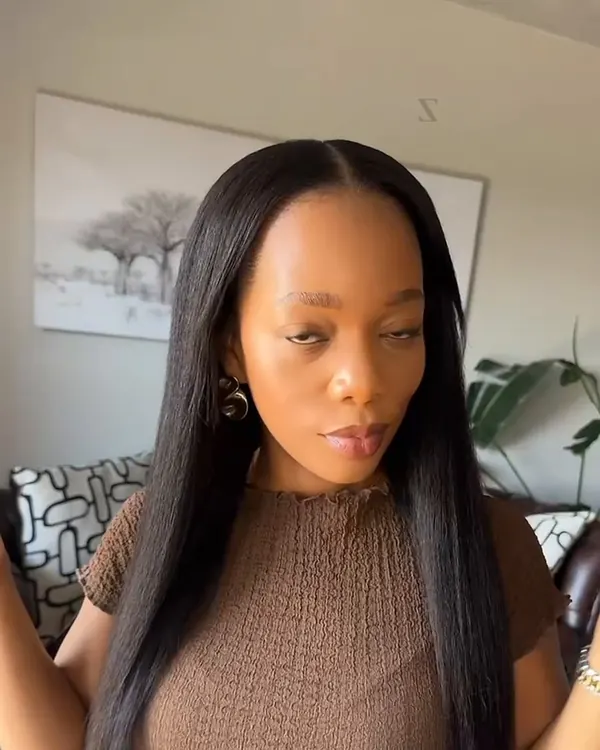
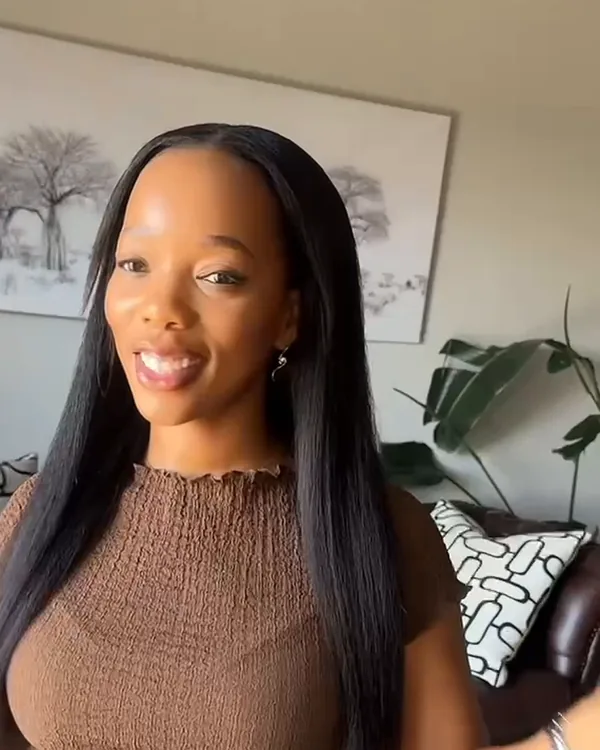
Eyes-open hero photos; smoother motion
- Half Wig: IMG_2820 (eyes open). U-Part: smiling, eyes-open frame from her U-Part video, cropped to match head size
- Page changes no longer wait before navigating (about 790ms to 210ms on a phone)
- Reveals start just before content reaches the screen, so fast scrolling never shows gaps
- Removed costly effects: animated clip-path openings, endless photo zoom, ribbon drift, blurred header and bar,
  header height change on scroll, and hero pointer/scroll handlers on inner pages

Claude-Session: https://claude.ai/code/session_01QDuqa353PVfZUPs24kS66a

diff --git a/assets/css/zante.css b/assets/css/zante.css
@@ -1742,3 +1742,27 @@ html.js-motion .z-hero .is-in .unveil img { transform: scale(1); }
   .ph-tile { border-radius: 14px; }
   .ph-tile figcaption { font-size: .72rem; }
 }
+
+/* ================= SMOOTHNESS PASS: only opacity and transform, nothing that repaints large areas ================= */
+html.is-leaving main, html.is-leaving .footer { opacity: .6; transform: none; }
+main, .footer { transition: opacity .15s ease; }
+html.js-motion main { animation: pageIn .4s ease-out both; }
+@keyframes pageIn { from { opacity: 0; } }
+html.js-motion [data-rv] { transform: translateY(14px); transition: opacity .6s ease-out, transform .7s var(--ease-soft); transition-delay: calc(var(--rv-i, 0) * 60ms); }
+html.js-motion .z-hero [data-rv] { transition-delay: calc(var(--rv-i, 0) * 90ms + 80ms); }
+html.js-motion .z-pair > .z-choice[data-rv] { transition-delay: calc(var(--rv-i, 0) * 110ms + 250ms); }
+html.js-motion .z-hero .z-drop[data-rv] { transition-delay: .45s; }
+html.js-motion .unveil, html.js-motion .z-hero .unveil, html.js-motion .unveil.is-in, html.js-motion .is-in .unveil, html.js-motion .z-hero .is-in .unveil { clip-path: none !important; transition: none; }
+html.js-motion .unveil img, html.js-motion .unveil video, html.js-motion .z-hero .unveil img { transform: none !important; }
+.z-choice.is-in .z-frame img { animation: none !important; }
+.ribbon path { animation: ribbonDraw 2.2s var(--ease-soft) .2s forwards !important; }
+.z-drop::after { display: none; }
+.pearl::after { animation-duration: 7s; }
+.header, .header.is-scrolled { backdrop-filter: none; -webkit-backdrop-filter: none; background: var(--bg); }
+.header-in, .header.is-scrolled .header-in { transition: none; height: 76px; }
+.logo-z, .header.is-scrolled .logo-z { transition: none; font-size: 2rem; }
+.mobile-bar { backdrop-filter: none !important; background: var(--panel) !important; }
+@media (max-width: 860px) {
+  .header-in, .header.is-scrolled .header-in { height: 64px; }
+  .logo-z, .header.is-scrolled .logo-z { font-size: 1.6rem; }
+}

diff --git a/assets/js/app.js b/assets/js/app.js
@@ -308,7 +308,7 @@
 
   // ======================= HERO MOTION DESIGN =======================
   (function heroMotion() {
-    var heroes = $$('.hero--live, .page-hero--rich');
+    var heroes = $$('.hero--live');
     if (!heroes.length) return;
     // 1. masked word reveal on the headline
     heroes.forEach(function (h) {
@@ -475,9 +475,7 @@
         var href = a.getAttribute('href');
         if (!/^[\w-]+\.html(#.*)?$/.test(href)) return;                 // only our own pages
         if (href.split('#')[0] === location.pathname.split('/').pop()) return; // same-page anchors scroll as usual
-        e.preventDefault();
-        root.classList.add('is-leaving');
-        setTimeout(function () { location.href = href; }, 220);
+        root.classList.add('is-leaving'); // navigation continues immediately; the fade is cosmetic
       });
       addEventListener('pageshow', function () { root.classList.remove('is-leaving'); });
     }
@@ -502,7 +500,7 @@
     if (reduce || !('IntersectionObserver' in window)) { items.forEach(function (el) { el.classList.add('is-in'); }); return; }
     var io = new IntersectionObserver(function (en) {
       en.forEach(function (x) { if (x.isIntersecting) { x.target.classList.add('is-in'); io.unobserve(x.target); } });
-    }, { threshold: 0.12, rootMargin: '0px 0px -6% 0px' });
+    }, { threshold: 0, rootMargin: '0px 0px 15% 0px' }); // start just before items reach the screen
     items.forEach(function (el) { io.observe(el); });
 
     // 3. header slims down after the first scroll
